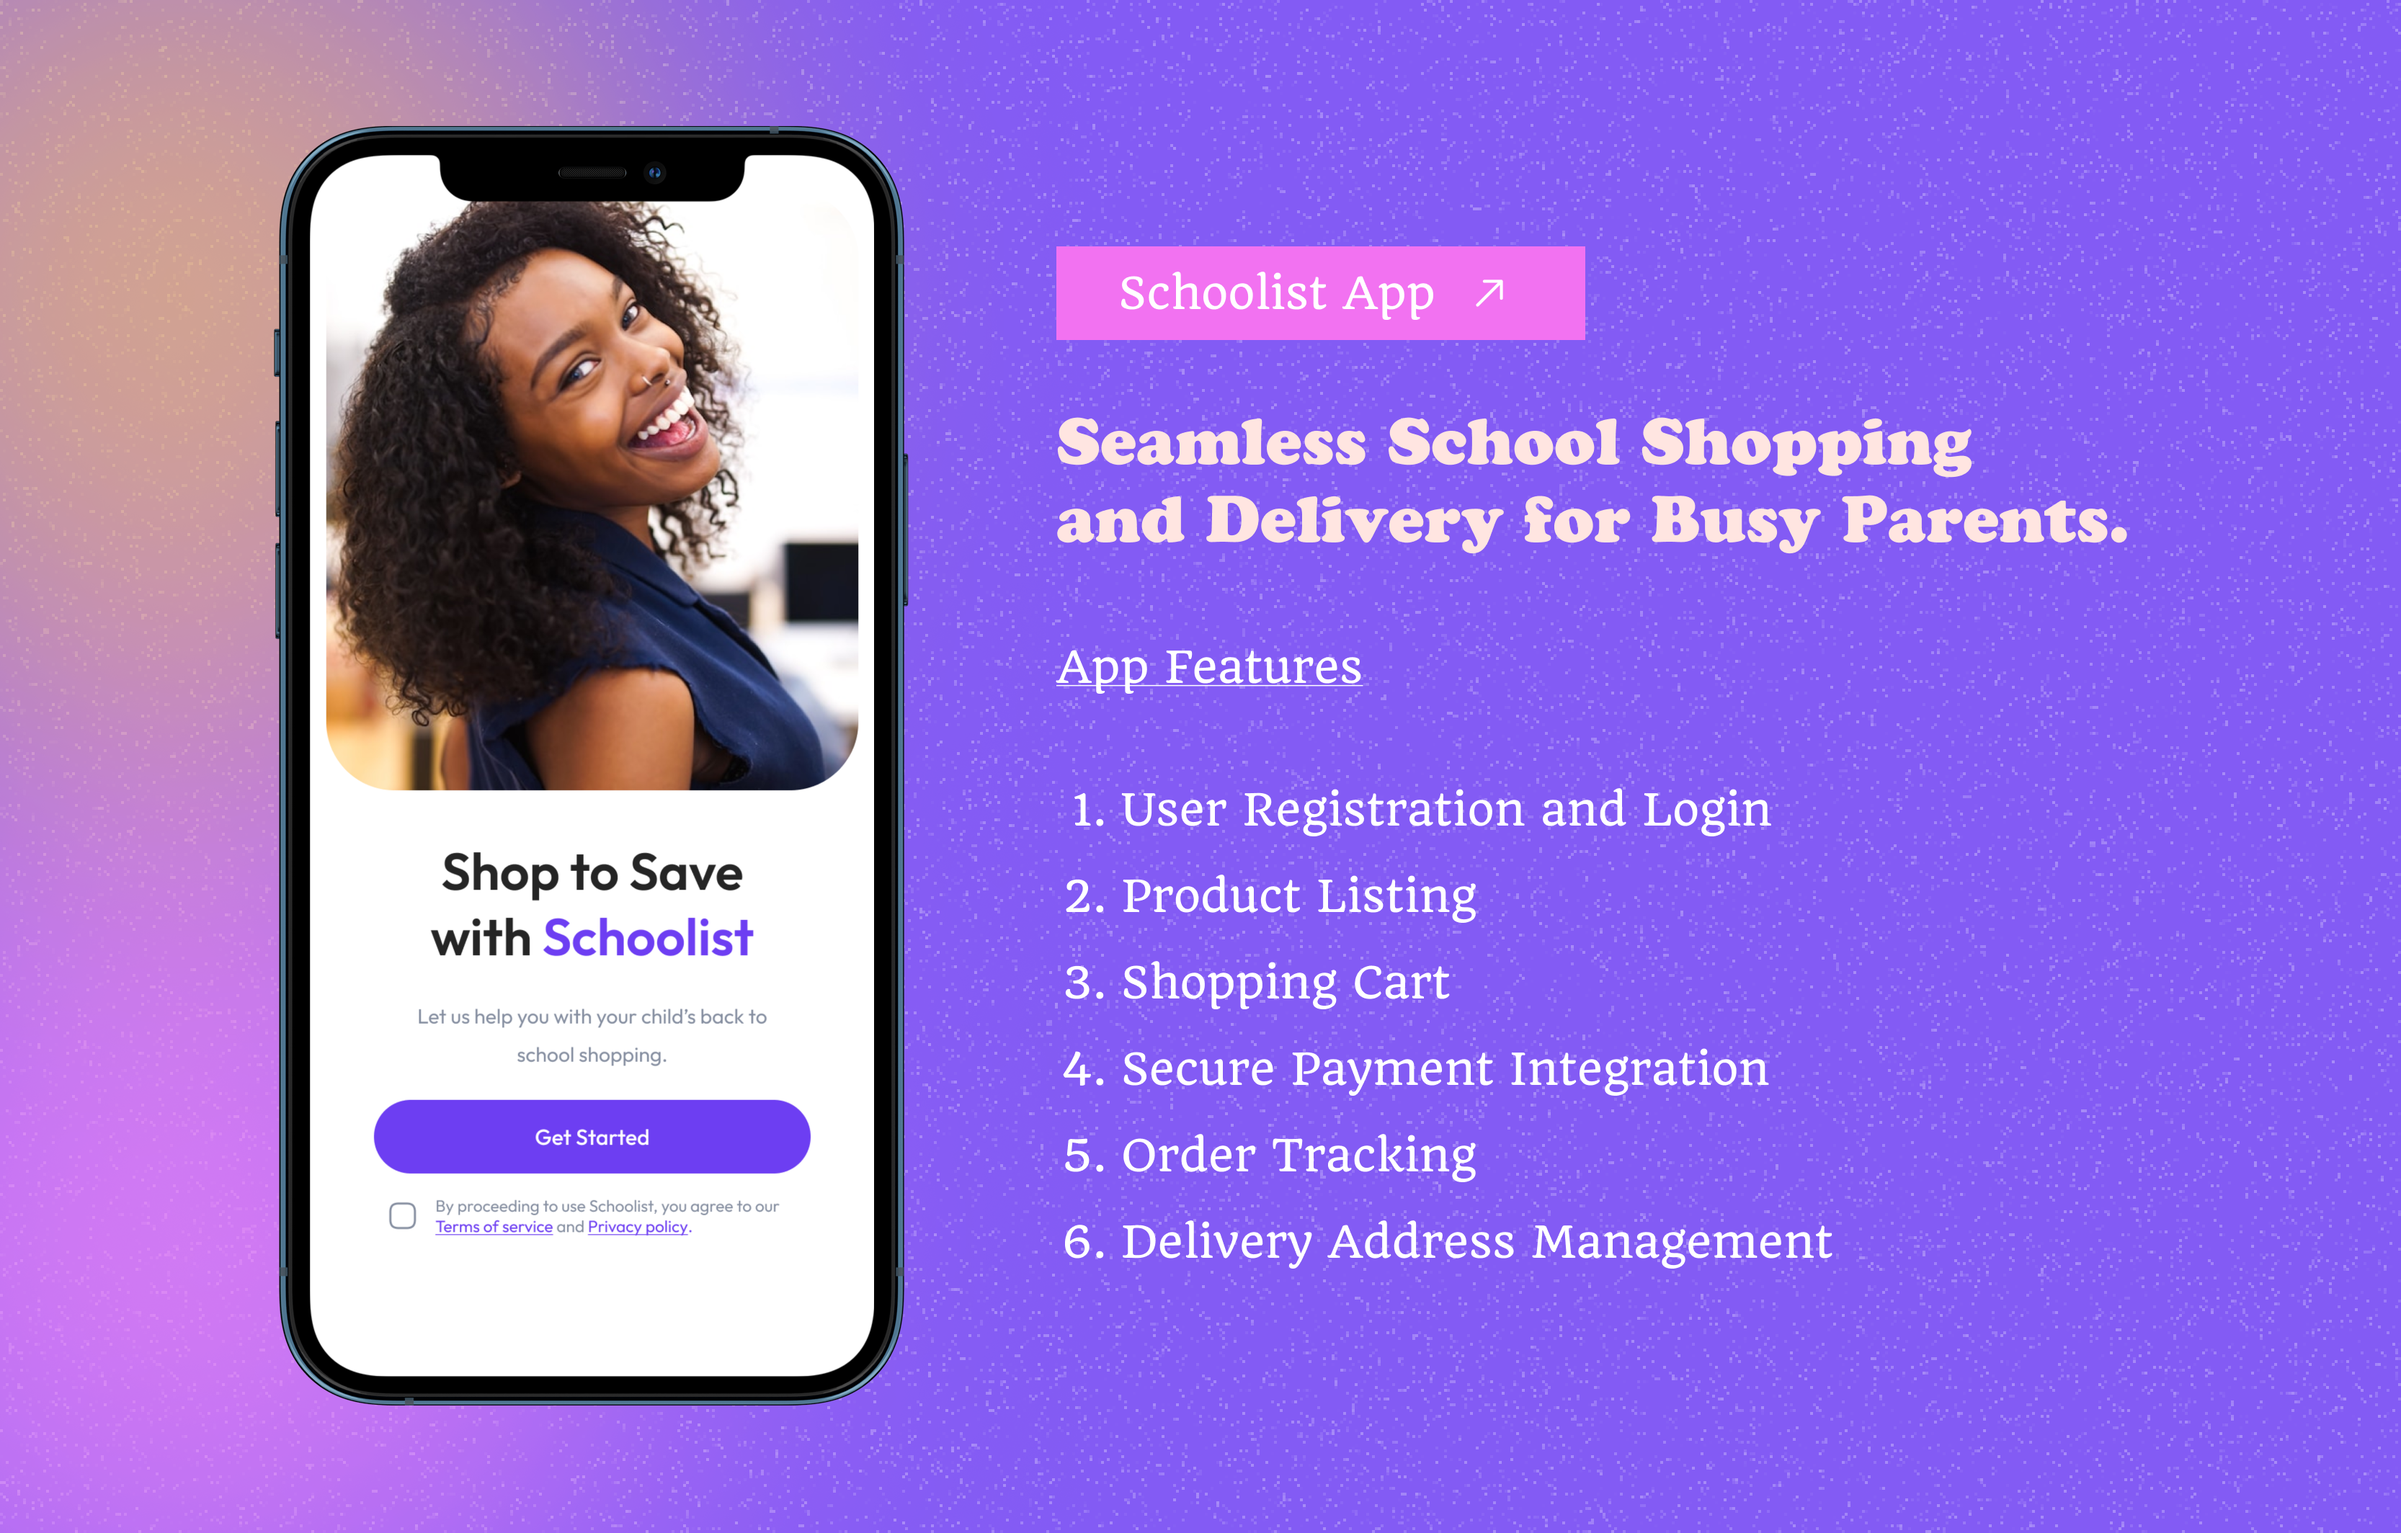
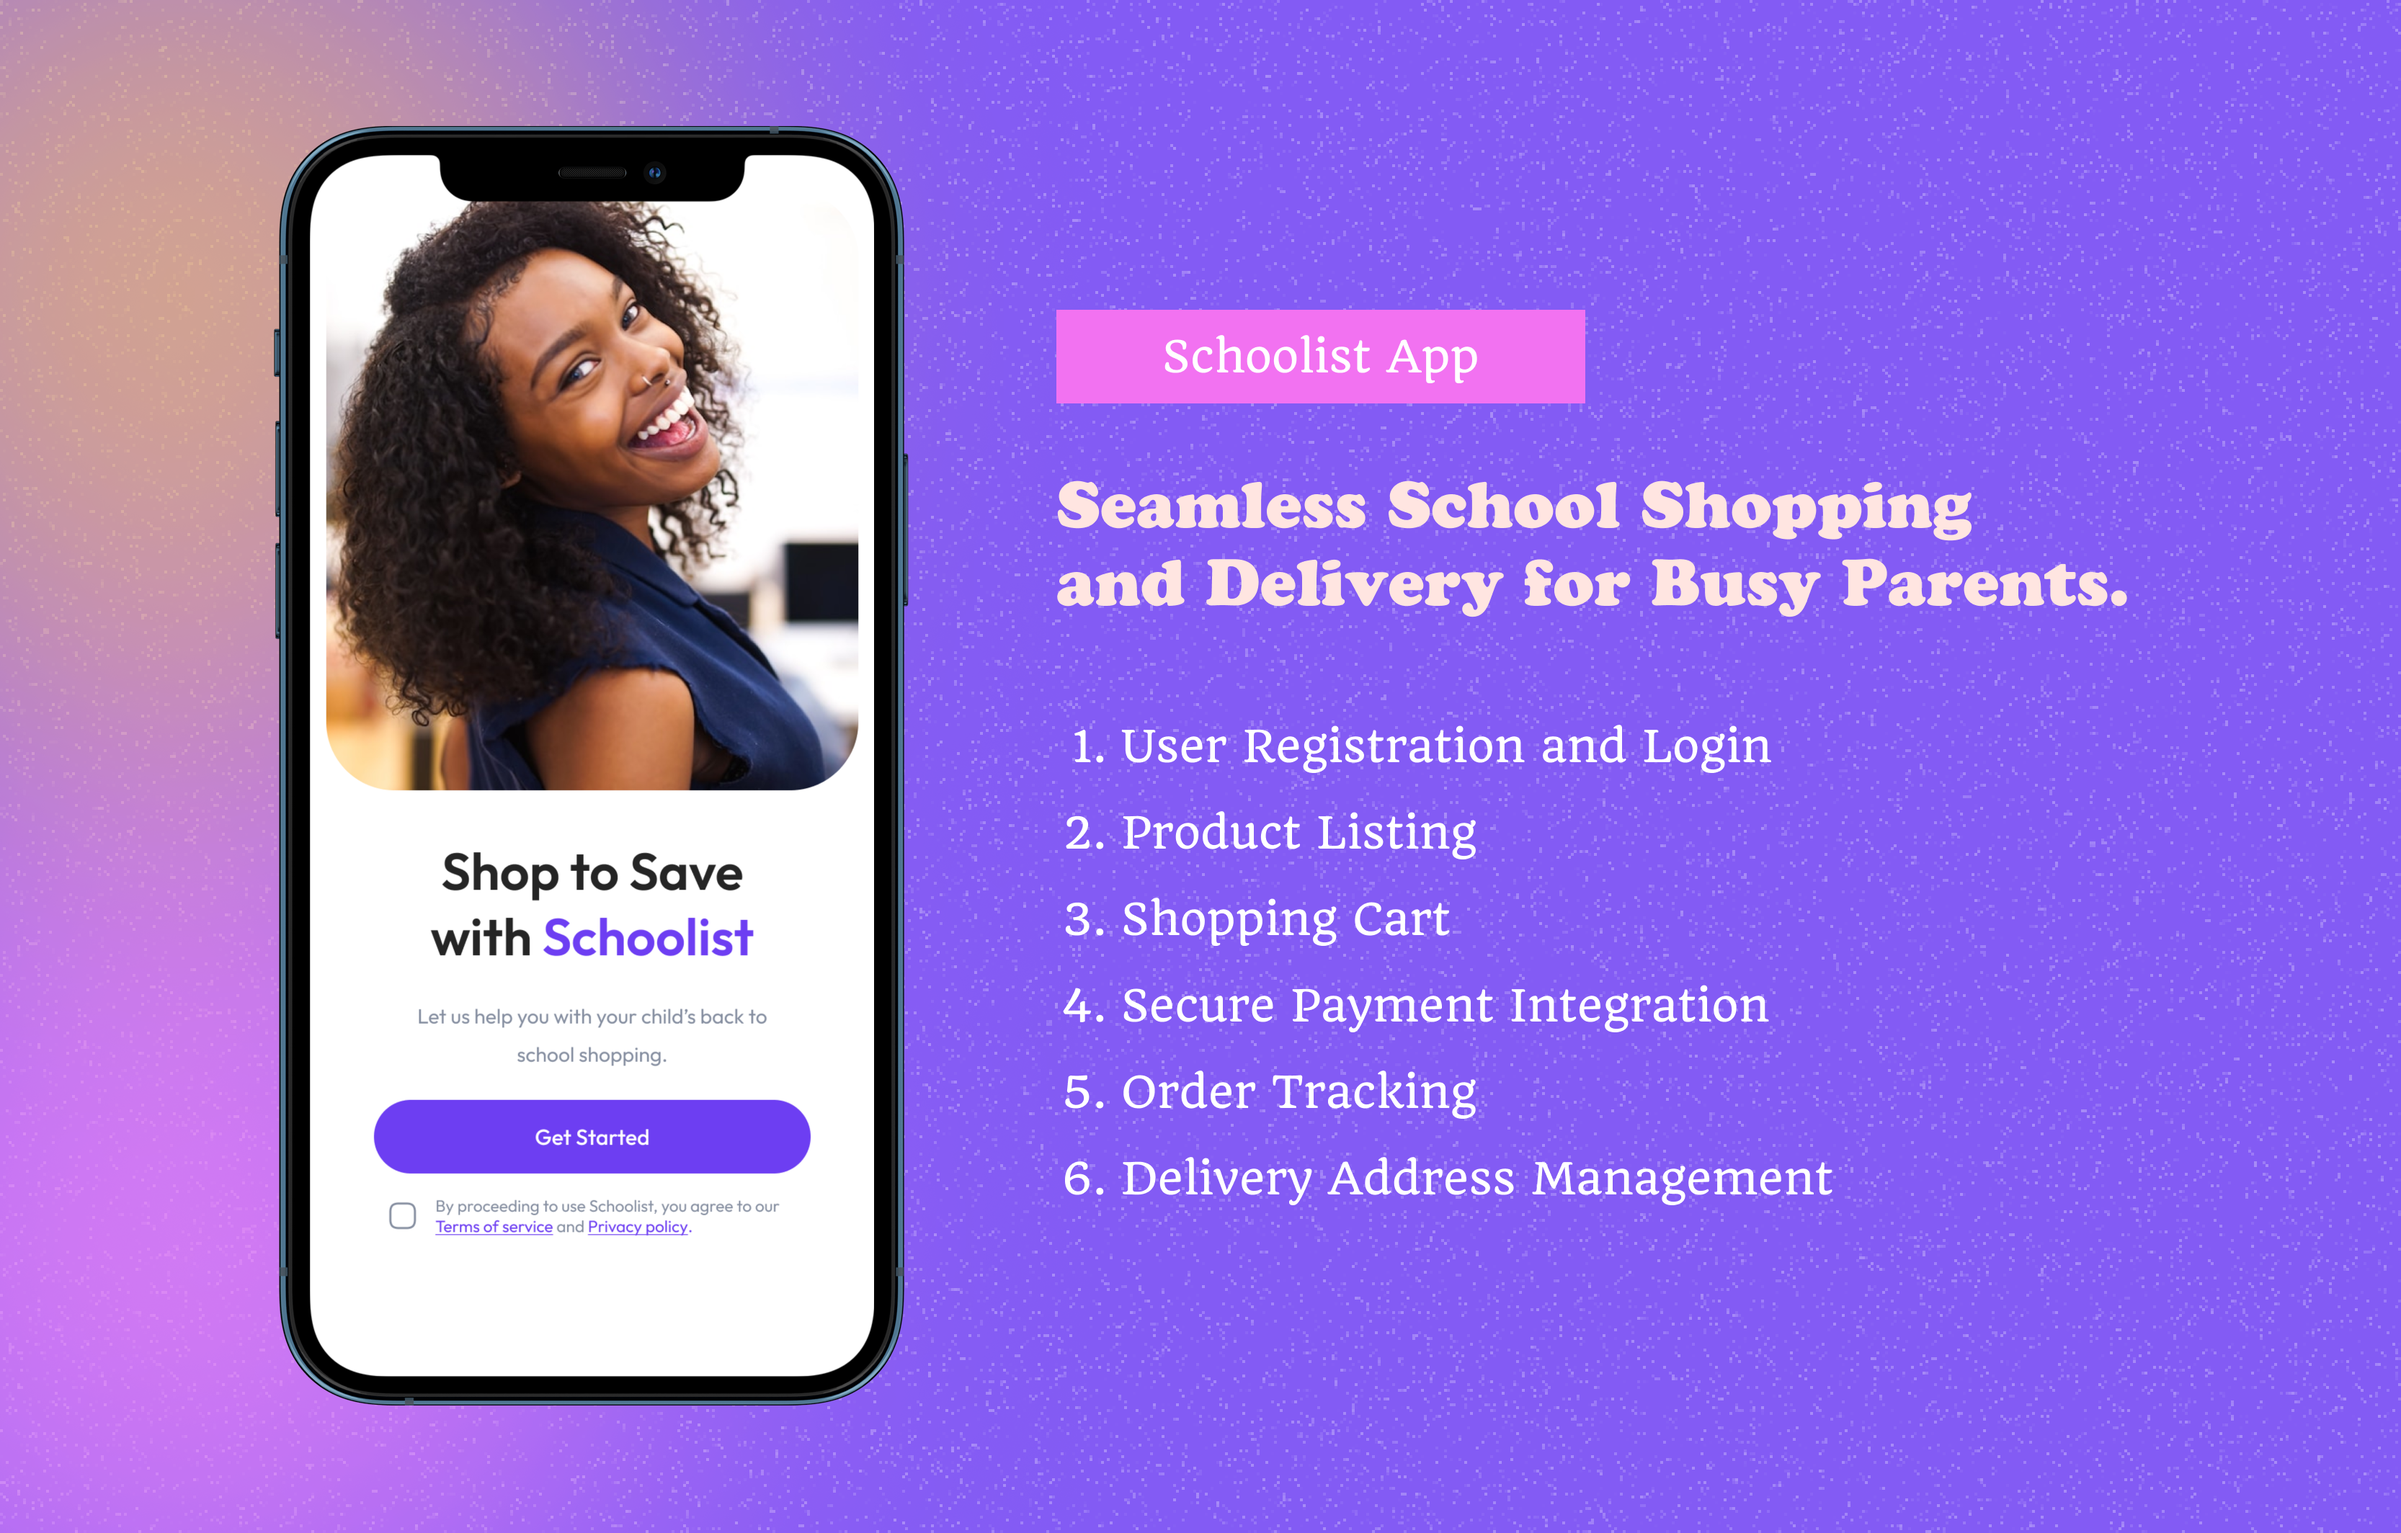
few changes

Changed region(s): [[0.437, 0.4342, 0.7491, 0.8374], [0.437, 0.1551, 0.9052, 0.4032]]

diff --git a/projects/schoolist.html b/projects/schoolist.html
@@ -24,10 +24,10 @@
       1. Schoolist<br>
       <span>(Seamless School Shopping and Delivery for Busy Parents).</span>
     </h1>
-    <img src="../img/schoolist.png" alt="Schoolist">
+    <img src="../img/try-shot.png" alt="Schoolist">
     <section class="case">
       <div class="case-section" id="introduction">
-        <h2 class="heading">Introduction:</h2>
+        <h2 class="heading">Overview:</h2>
         <div class="description">
           Schoolist is a comprehensive web and mobile application that revolutionizes the school shopping experience for busy parents. With its seamless interface and convenient features, Schoolist simplifies the process of finding and purchasing school supplies for children. By offering a wide range of products, intuitive navigation, real-time order tracking, and secure payment integration, Schoolist ensures that parents can effortlessly meet their children's educational needs while saving valuable time and minimizing stress. This case study explores the UI/UX design process behind Schoolist, focusing on how the app's features and intuitive interface enhance the overall user experience for busy parents.
         </div>
@@ -39,7 +39,7 @@
         </a>
       </div>
       <div class="case-section" id="problem">
-        <h2 class="heading">Problem:</h2>
+        <h2 class="heading">What is Schoolist Solving?</h2>
         <div class="description">
           Busy parents face numerous challenges when it comes to school shopping for their children. The process of finding and purchasing school supplies can be time-consuming, overwhelming, and often involves visiting multiple stores or dealing with cumbersome online shopping platforms. Additionally, the lack of centralized information and limited visibility into product availability and pricing can lead to inefficiencies and frustration for parents.<br><br>
           Schoolist aims to solve these problems by providing a seamless and convenient solution for busy parents to shop for school requirements. By streamlining the entire school shopping experience, Schoolist saves parents valuable time and effort, enabling them to focus on other responsibilities while ensuring their children have all the necessary supplies for a successful academic year.
